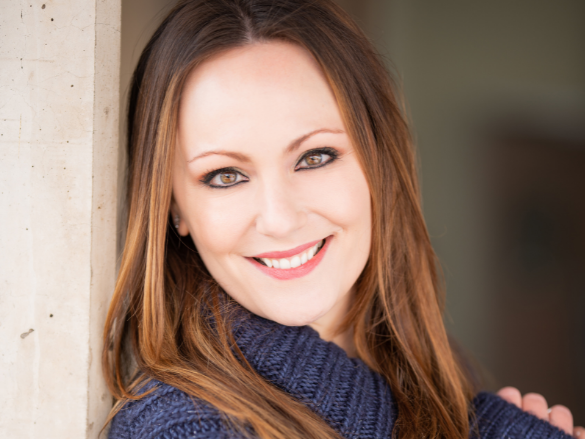
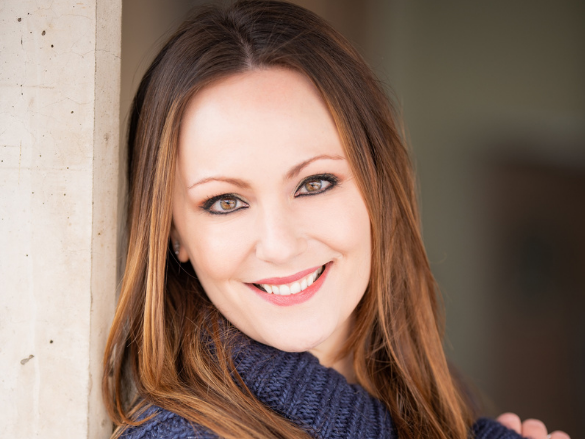
Update Pages “home”

diff --git a/src/content/pages/index.md b/src/content/pages/index.md
@@ -3,7 +3,7 @@ template: index-page
 slug: /
 title: Amber Biela-Weyenberg
 tagline: "Storyteller | Marketer with a Purpose | Community Builder "
-featuredImage: /assets/blog-test-3-.png
+featuredImage: /assets/blog.png
 cta:
   ctaText: Learn More
   ctaLink: /about
